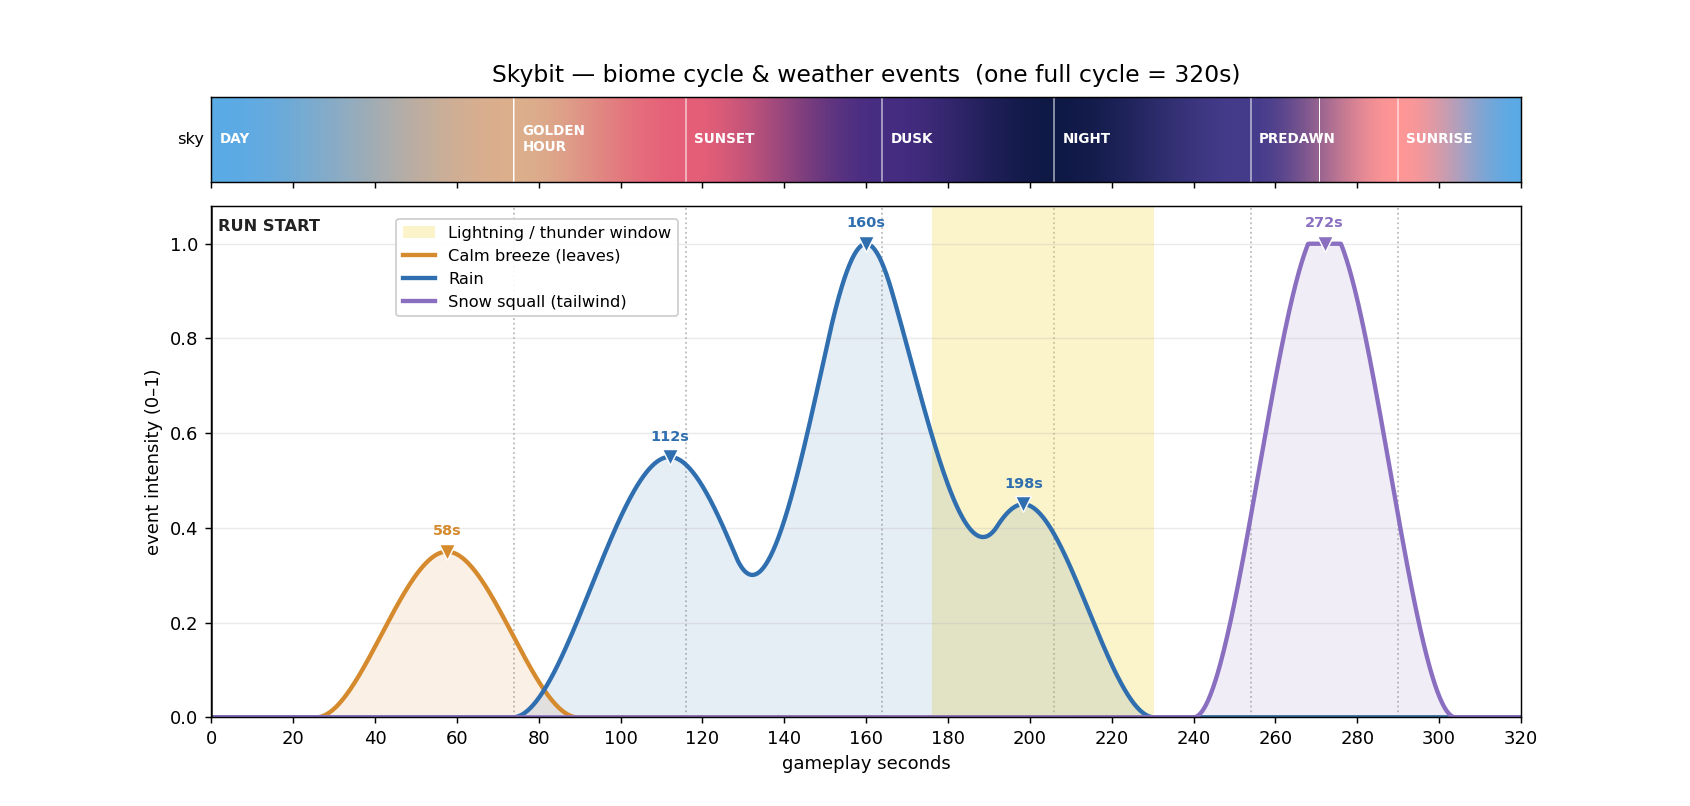
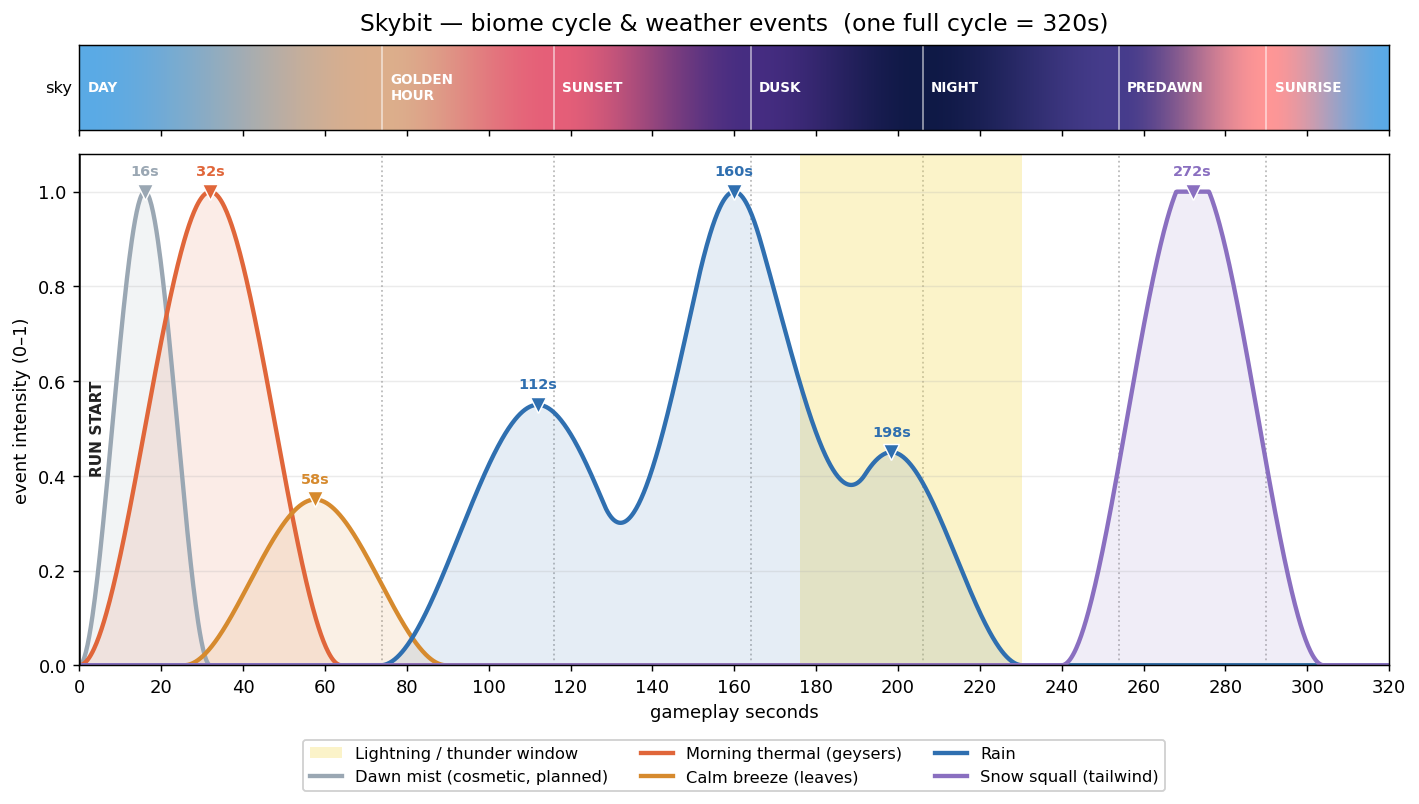
Add morning thermal + dawn mist event curves to the biome timeline
Adds thermal_intensity (peak ~32s) and mist_intensity (peak ~16s)
scheduling bumps in the morning DAY window, plots both on the
weather timeline with marked peaks, and relocates the legend/RUN
START label so the early-morning peaks stay readable. Mist is
cosmetic-only and deferred; the thermal will drive ground geysers.

https://claude.ai/code/session_01JWYQYgqQbSfQKYb7zu7YPg

diff --git a/tools/plot_biome_timeline.py b/tools/plot_biome_timeline.py
@@ -48,6 +48,8 @@ PHASE_LABELS = [
 
 # (label, intensity-fn, line colour, peak-phase list)
 CURVES = [
+    ("Dawn mist (cosmetic, planned)", weather.mist_intensity, "#9aa7b3", [0.05]),
+    ("Morning thermal (geysers)", weather.thermal_intensity, "#e0663a", [0.10]),
     ("Calm breeze (leaves)", weather.calm_breeze, "#d68a2e", [0.18]),
     ("Rain", weather.rain_intensity, "#2f6fb0", [0.35, 0.50, 0.62]),
     ("Snow squall (tailwind)", weather.storm_intensity, "#8a6fc0", [0.85]),
@@ -105,11 +107,12 @@ def main() -> None:
                         xytext=(0, 9), ha="center", fontsize=8,
                         color=color, fontweight="bold")
 
-    # Game start marker.
+    # Game start marker — label rotated along the line so it clears the
+    # early-morning mist/thermal peak labels at the top-left.
     ax.axvline(0, color="#222", linewidth=2)
-    ax.annotate("RUN START", (0, 1.02), xytext=(4, 0),
-                textcoords="offset points", fontsize=9, fontweight="bold",
-                color="#222", va="bottom", ha="left")
+    ax.annotate("RUN START", (0, 0.5), xytext=(6, 0),
+                textcoords="offset points", rotation=90, fontsize=8.5,
+                fontweight="bold", color="#222", va="center", ha="left")
 
     # Biome keyframe gridlines carried down into the lower panel.
     for phase, _ in PHASE_LABELS:
@@ -123,14 +126,16 @@ def main() -> None:
     ax.grid(True, axis="y", alpha=0.25)
     ax.set_xticks(range(0, int(CYCLE) + 1, 20))
 
-    # Legend: curves + lightning patch.
+    # Legend below the plot (3 cols) so it never sits over the early-morning
+    # mist/thermal peaks at the top-left.
     handles, labels = ax.get_legend_handles_labels()
-    ax.legend(handles, labels, loc="upper left",
-              bbox_to_anchor=(0.135, 0.99), framealpha=0.92, fontsize=9)
+    ax.legend(handles, labels, loc="upper center",
+              bbox_to_anchor=(0.5, -0.13), ncol=3, framealpha=0.92,
+              fontsize=9)
 
     fig.tight_layout()
     out_path = os.path.join(out_dir, "biome_event_timeline.png")
-    fig.savefig(out_path)
+    fig.savefig(out_path, bbox_inches="tight")
     plt.close(fig)
     print(f"wrote {out_path}")
 

diff --git a/game/weather.py b/game/weather.py
@@ -79,6 +79,25 @@ def wind_intensity(phase: float) -> float:
     return max(0.0, min(1.0, calm_breeze(phase) + storm_intensity(phase)))
 
 
+def thermal_intensity(phase: float) -> float:
+    """Morning thermals (peak phase 0.10 ≈ 32s) — warm rising air that
+    spawns ground geysers giving Pip a springy updraft. Scoped to the
+    DAY window so it only ever eases the start of a run; 0 everywhere
+    else. The curve is a pure scheduling signal (peak 1.0) — geyser
+    spawn rate / pop strength scale off it, with the lift magnitude
+    tuned by the GEYSER_* constants in config."""
+    return _bump(phase, 0.10, 0.10)
+
+
+def mist_intensity(phase: float) -> float:
+    """Dawn mist (peak phase 0.05 ≈ 16s) — a low ground-hugging haze
+    that the rising morning thermals then disperse. Cosmetic-only and
+    not yet rendered in-game (deferred); defined here so the planned
+    event shows on the biome/weather timeline. Render opacity, when
+    wired, stays capped so it can never block the play area."""
+    return _bump(phase, 0.05, 0.05)
+
+
 # Cold wash colour for the snow squall — a deep blue-grey that
 # cools the whole scene so the bright white snow pops against it.
 SNOW_TINT = (74, 96, 130)
